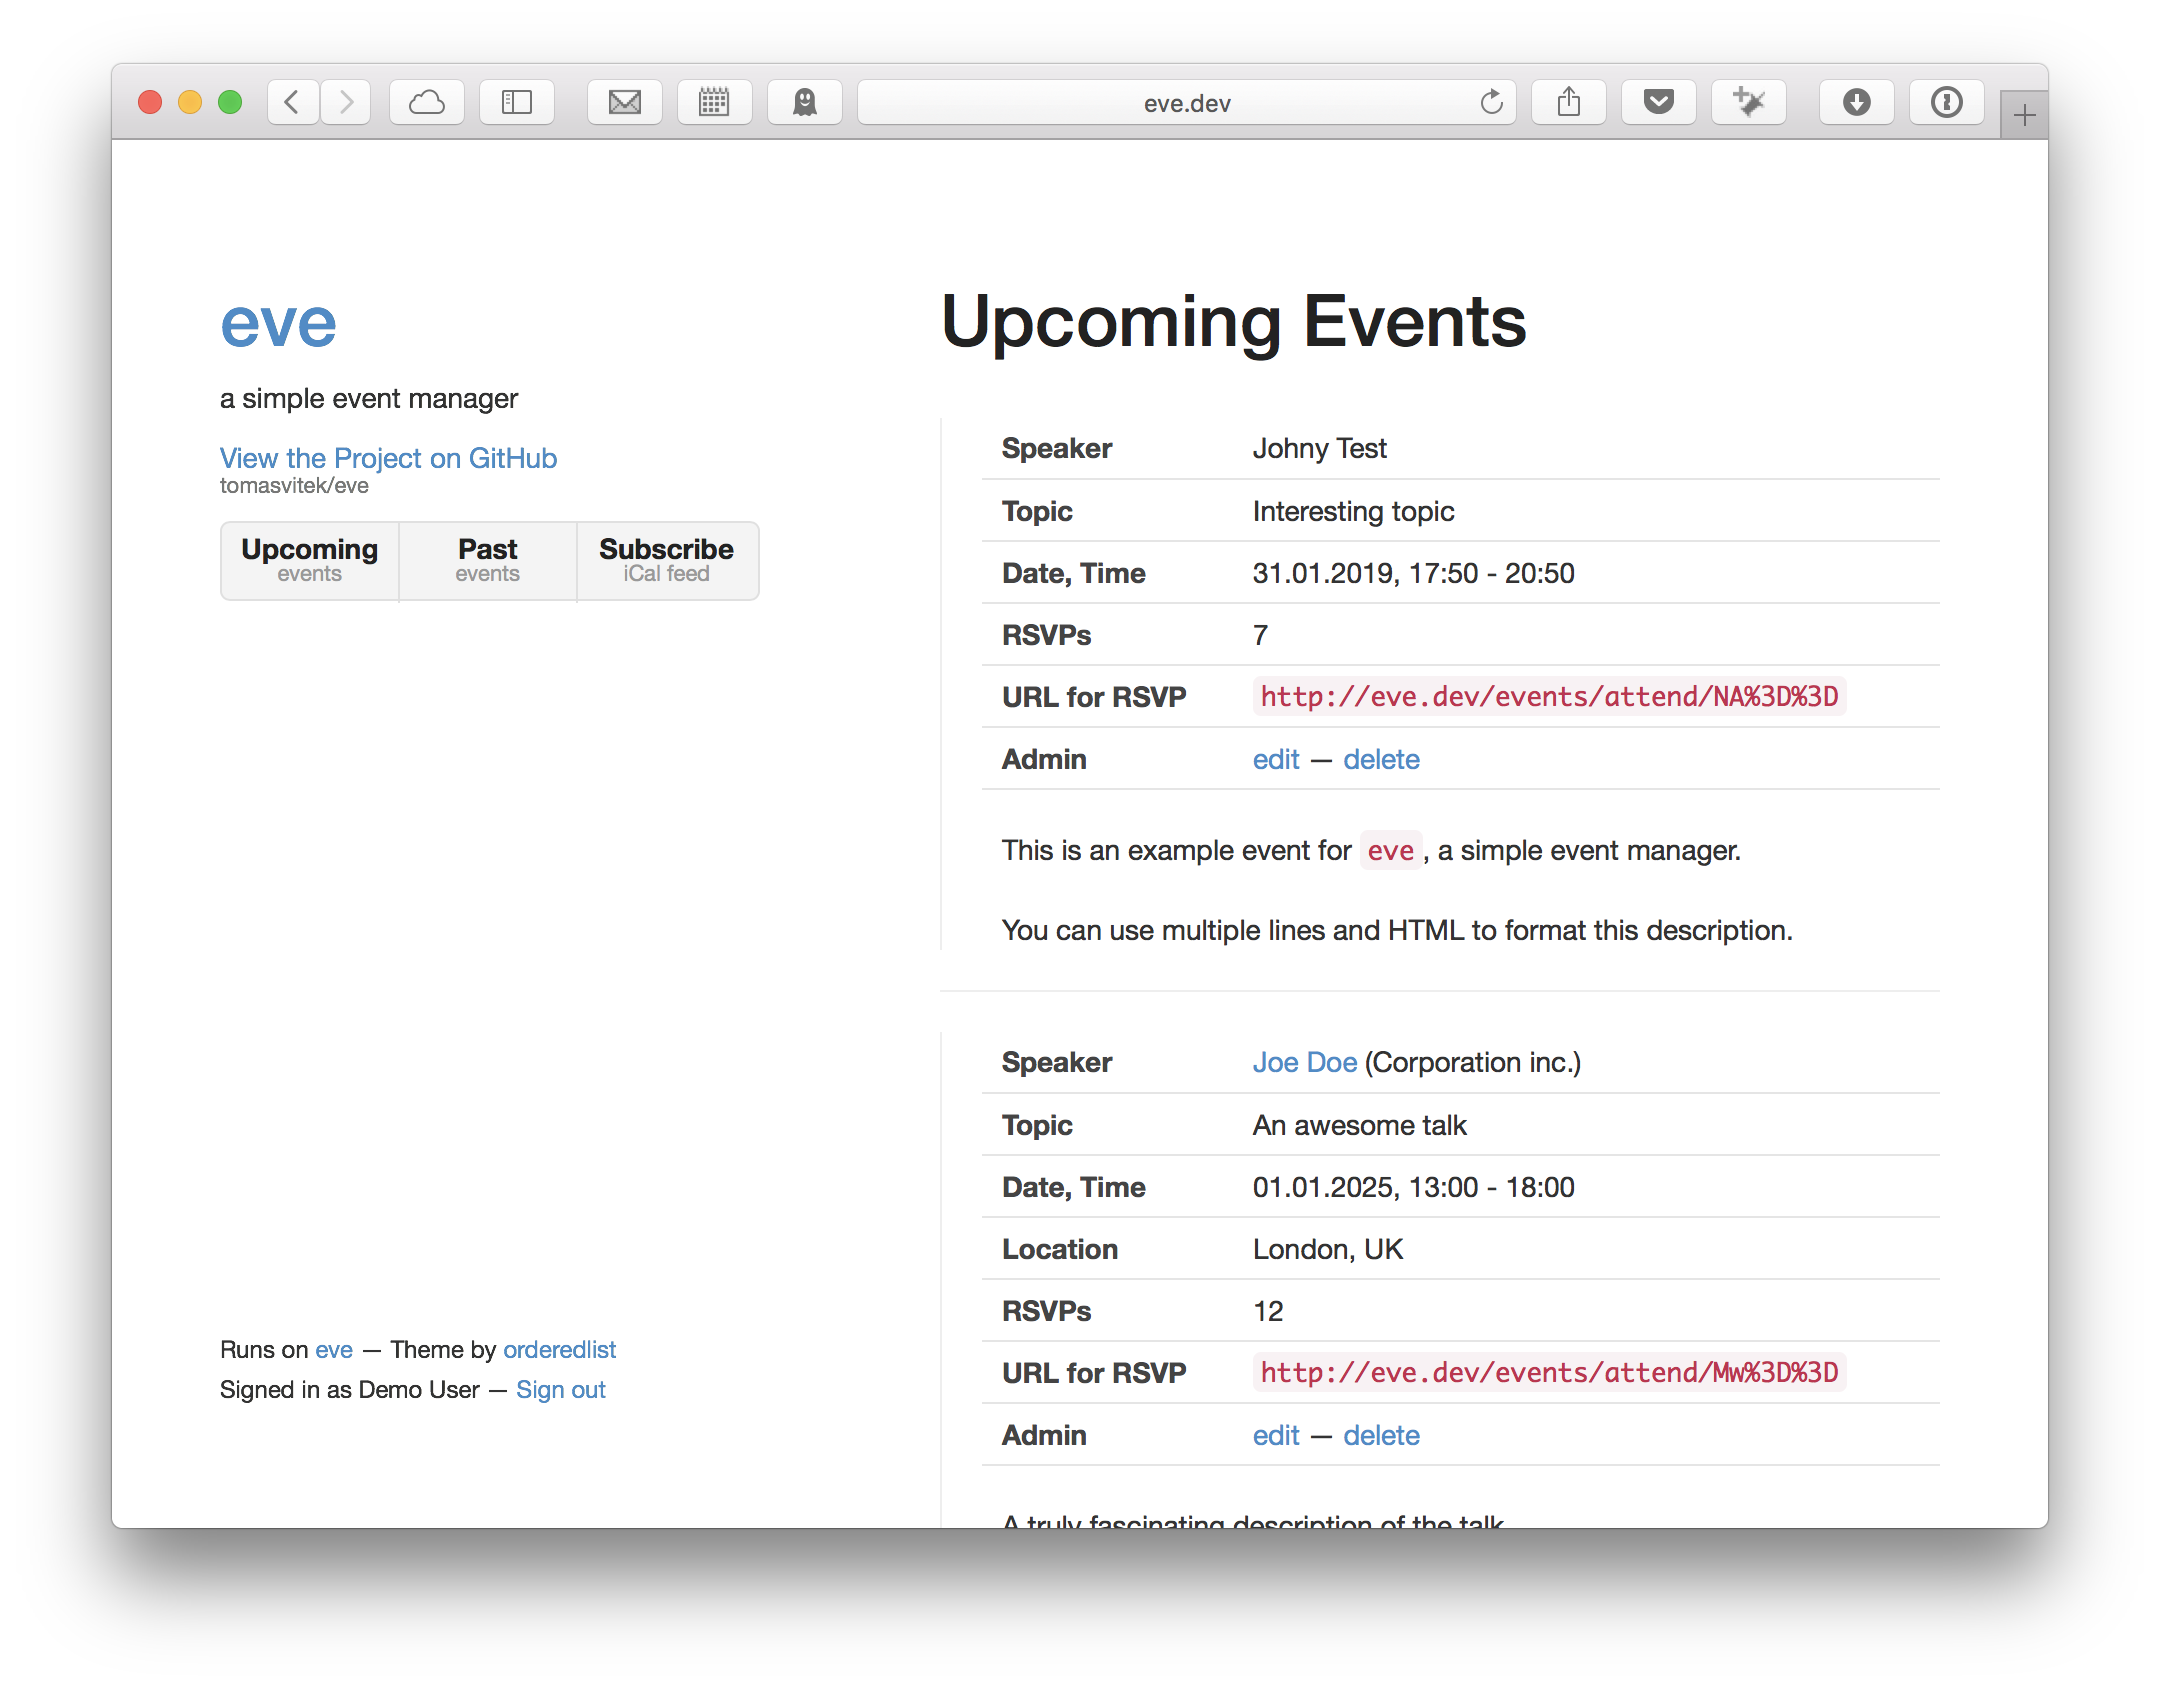
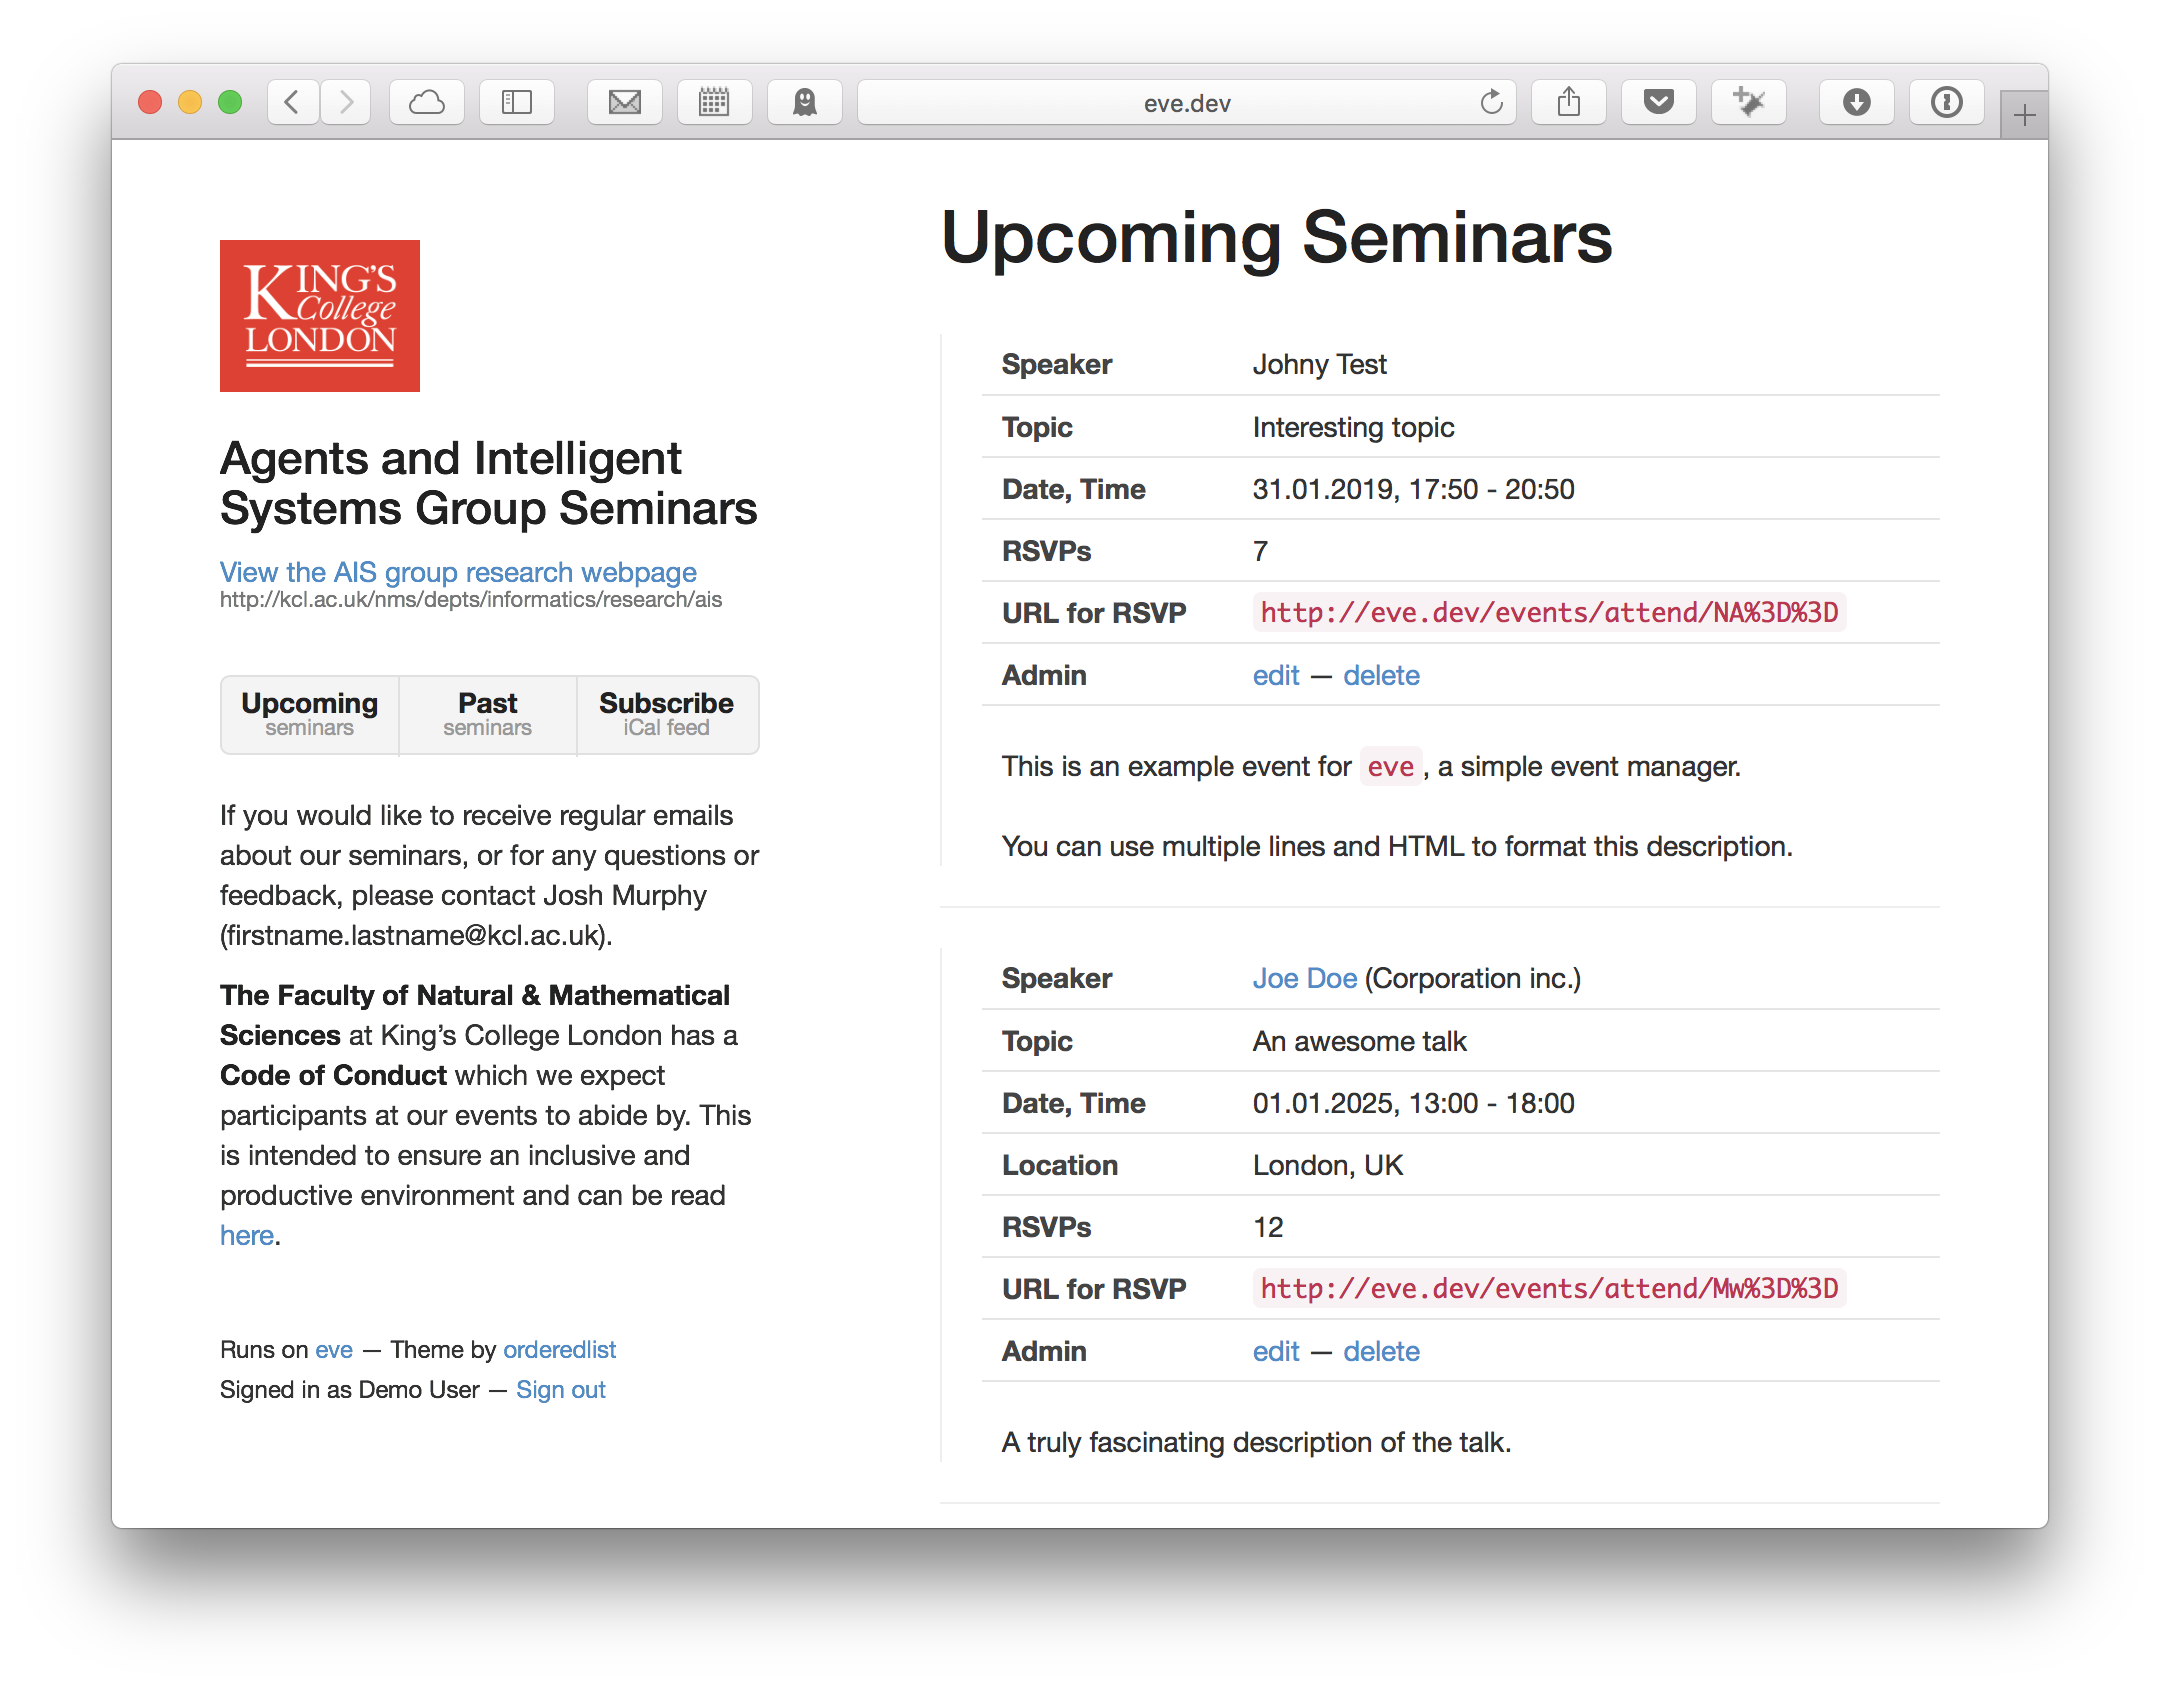
Update READM for KCL custom version

diff --git a/README.md b/README.md
@@ -1,5 +1,11 @@
 # eve: simple event manager
 
+`Note:` This is a custom version of `eve` for AIS research group at
+King's College London running at [http://nms.kcl.ac.uk/ais/eve/www/](http://nms.kcl.ac.uk/ais/eve/www/).
+If you'd like to use `eve`, please check `master` branch.
+
+______
+
 Do you organise regular seminars and need a simple way to advertise
 upcoming seminars and their speakers?
 
